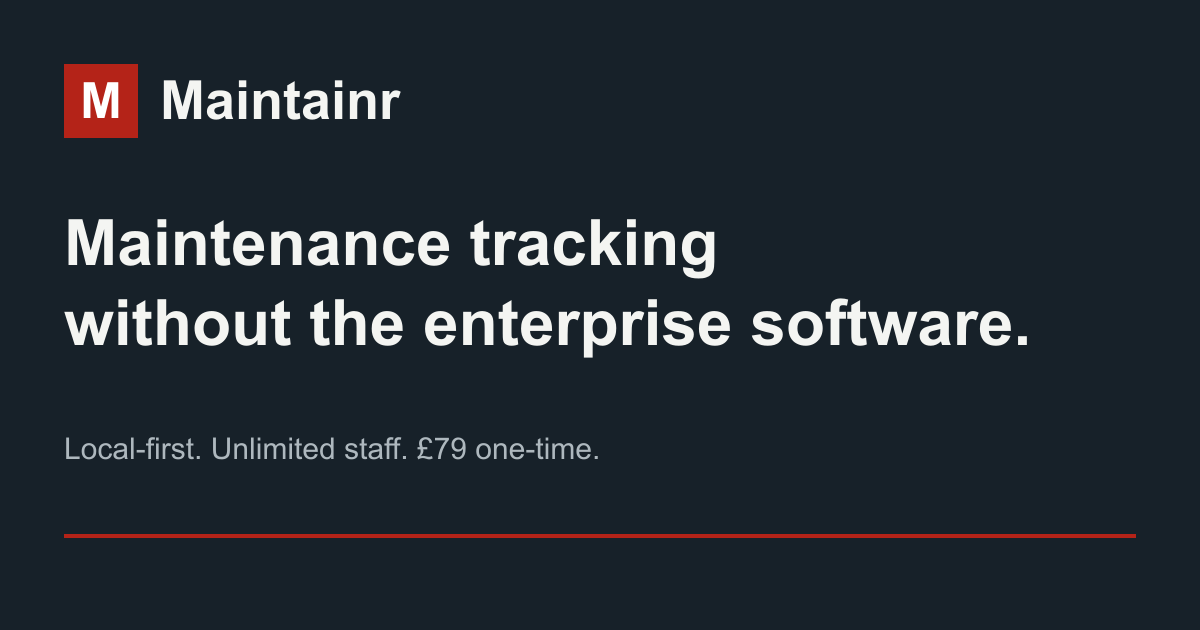
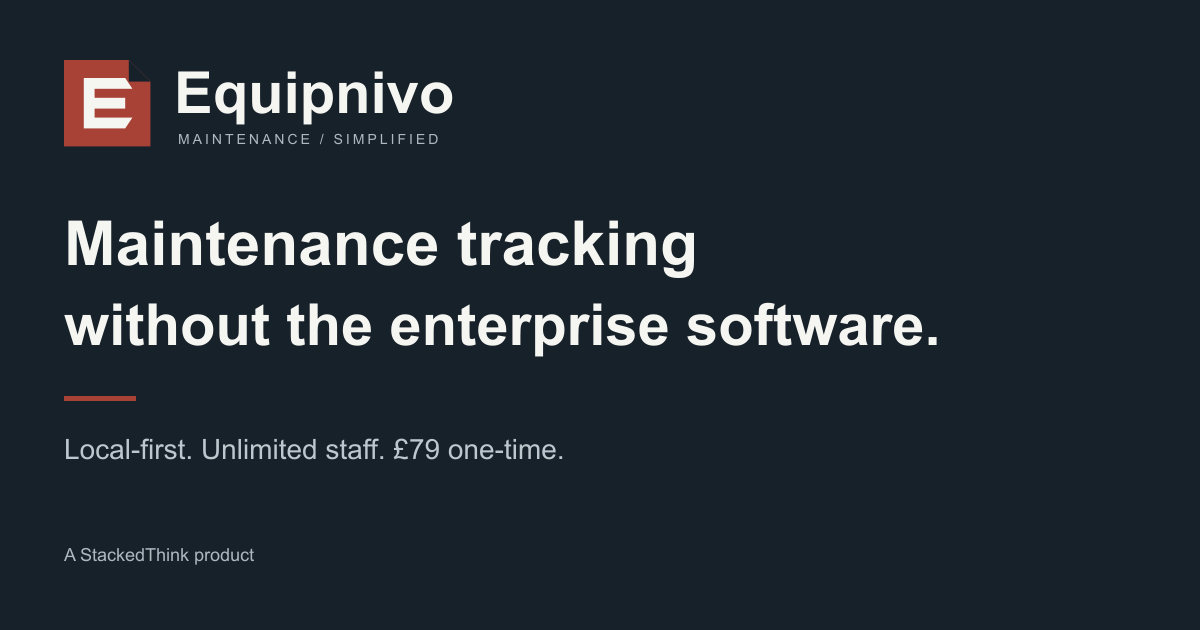
Introduce Equipnivo identity, new canonical domain and audited application rename plan

diff --git a/src/styles/site.css b/src/styles/site.css
@@ -3,3 +3,7 @@
 @media(max-width:760px){.wrap{width:calc(100% - 36px)}.header-inner{flex-direction:column;align-items:flex-start;padding:20px 0;gap:20px}nav{gap:18px;flex-wrap:wrap;width:100%}nav a{font-size:11px}.nav-download{padding:0;border:0}.hero{padding:44px 0}.hero-grid,.local-grid,.pricing-grid,.faq-grid,.section-heading,.two-columns{grid-template-columns:1fr;gap:30px}.hero h1{font-size:clamp(48px,9vw,65px)}.hero-spec{max-width:520px;width:100%}.hero .lead{font-size:15px}.spec-title{font-size:44px}.hero-spec dl{margin:20px 25px}.industry-strip>.wrap{align-items:flex-start;gap:14px}.industry-strip span{padding-top:4px}.feature-grid{grid-template-columns:1fr 1fr}.feature{padding:22px}.section{padding-block:50px}.section-heading{margin-bottom:24px;gap:0}.section-heading>p{max-width:none}.local-section,.faq-section{padding:48px 0}.pricing-grid{gap:30px}.price-card{padding:26px}.faq-grid{gap:12px}.closing{align-items:flex-start;flex-direction:column;padding-block:40px}.footer-inner{align-items:flex-start;flex-direction:column;gap:16px}.footer p{margin:0}.download-panel,.help-bar{flex-direction:column;align-items:flex-start}.status-label{max-width:none}.two-columns{gap:30px}.network{padding:28px 20px}.eyebrow{font-size:9px}}
 @media(max-width:430px){.feature-grid{grid-template-columns:1fr}.feature h3{max-width:none}.number{margin-bottom:15px}.actions{flex-direction:column}.actions .button{width:100%}.hero h1{font-size:48px}.feature p{font-size:13px}.header nav{gap:14px}.hero-spec dl div{grid-template-columns:65px 1fr}.industry-strip p{font-size:10px}.price-card .text-link{font-size:11px}.download-panel{padding:22px}.instruction-panel{padding:22px}}
 @media(prefers-reduced-motion:reduce){html{scroll-behavior:auto}}
+/* Equipnivo identity: angular E, equipment label geometry and restrained oxide red. */
+:root{--red:#a84236}em{color:#d68170}.primary:hover{background:#89362c;border-color:#89362c}.red-square{background:#d68170}.brand-mark{display:block;width:44px;height:44px;flex:0 0 auto;color:var(--red)}.brand span{font-size:32px;letter-spacing:.01em}.brand small{font-size:8px;letter-spacing:.17em}.header-inner{min-height:104px}.hero{padding-top:52px}.hero-brandline{display:flex;align-items:center;gap:12px;margin-bottom:32px}.hero-brandline>.brand-mark{width:32px;height:32px}.hero-brandline>span{font:700 20px/1 'Barlow Condensed';letter-spacing:.07em}.hero-brandline small{display:block;margin-top:5px;font:500 8px Inter;letter-spacing:.15em;color:#acb8c0}.hero h1{font-size:clamp(48px,6.3vw,80px)}.spec-emblem{padding:26px 25px 0;display:flex;gap:17px;align-items:center}.spec-emblem .brand-mark{width:76px;height:76px}.spec-emblem>span{font:600 12px/1.7 'Barlow Condensed';letter-spacing:.14em;color:#b7c1c7}.spec-title{font-size:45px;padding-top:23px}.hero-spec{border-top:3px solid var(--red)}.spec-head{font-size:8px;letter-spacing:.12em}.number{font-size:24px}.footer .brand-mark{width:36px;height:36px}.footer .brand small{font-size:7px}.footer .brand span{font-size:26px}.network .device-icon{color:#d68170}
+@media(max-width:760px){.header-inner{min-height:auto}.hero-brandline{margin-bottom:26px}.hero h1{font-size:clamp(48px,9vw,65px)}.spec-title{font-size:43px}.hero{padding-top:36px}}
+@media(max-width:430px){.hero h1{font-size:46px}.spec-title{font-size:40px}.brand span{font-size:30px}}

diff --git a/src/config.ts b/src/config.ts
@@ -1,5 +1,5 @@
 export const site = {
-  url: 'https://maintainr.stackedthink.com',
+  url: 'https://equipnivo.stackedthink.com',
   checkout: 'https://buy.stripe.com/7sY7sMgDC5h58MV3sBaAw00',
   // Only set this after verifying a stable Windows installer release asset.
   windowsDownload: null as string | null,

diff --git a/APP-RENAME-PLAN.md b/APP-RENAME-PLAN.md
@@ -1,0 +1,77 @@
+# Equipnivo v1.0.0 — application rename plan
+
+Published by StackedThink. Audit performed 2026-09-30 against `RyanGAt/Maintainr` main, commit `07404c2ed2191716d7617e2925ef669525f7a322`. This is a source audit and implementation plan. Application code, live Stripe configuration and the production licensing service have not been changed by the website rename.
+
+## Target identity
+
+- Product: **Equipnivo**, tagline **Maintenance / Simplified**.
+- Positioning: **Maintenance tracking without the enterprise software.**
+- Publisher: **StackedThink**.
+- Website: https://equipnivo.stackedthink.com.
+- Website repository: `RyanGAt/equipnivo-website`.
+- Proposed application repository: `RyanGAt/Equipnivo` (rename before public release; not changed during this audit).
+- Release/tag: **Equipnivo v1.0.0** / `v1.0.0`.
+- Installer: `Equipnivo-1.0.0-Windows-x64.exe`.
+- Windows host executable: `Equipnivo.exe`; explicitly set assembly/product/company/version metadata rather than relying on a renamed folder.
+- Proposed licence prefix: `EQN1-`; product payload and checkout metadata ID: `equipnivo`; major version remains `1`.
+- Licensing hostname stays `license.stackedthink.com`. Keep the £79 price, one-installation entitlement, unlimited staff and offline certificate verification.
+
+## Customer-facing audit
+
+| Area | Confirmed source | Required change |
+| --- | --- | --- |
+| Login, initial admin setup, navigation and header | `frontend/src/App.vue` lines 56, 60, 77–99 | Replace visible name and all three M badges with the angular Equipnivo E. Use the website's SVG geometry; retain readable wordmark and tagline. |
+| Browser/window title | `frontend/index.html` currently contains only the mount element and module script | Add a proper HTML document, title `Equipnivo`, favicon and viewport metadata. If a desktop shell/tray launcher is added, title it Equipnivo too. No shell currently exists in the tree. |
+| First equipment setup | `frontend/src/views/Dashboard.vue` lines 91–148 | Rename headings, explanatory text, submit label and ready message. |
+| Trial upgrade modal | `frontend/src/views/Assets.vue` lines 183–190 | Rename trial text and upgrade button. Keep the 10 active equipment limit. |
+| Settings and licence UI | `frontend/src/views/Settings.vue` lines 83–100 and 122–230 | Rename settings, activation/deactivation feedback, buy button, network explanation and data path label. Switch both licence placeholders to EQN1 only when the issuer is changed. |
+| API error messages | `backend/Maintainr.Api/Program.cs` lines 94, 124, 241 and `LicenseService.cs` lines 87, 98, 132 | Rename trial, setup, admin and licence errors. Keep role and validation behaviour. |
+| Purchase success page | `licensing/Maintainr.Licensing.Api/Program.cs` lines 183–211, 251 | Rename browser title, StackedThink product label, purchase status, activation guidance and already-active error. This page is served by licensing production, so stage it with the coordinated licensing release. |
+| Docs | Root `README.md`, `docs/architecture.md`, `licensing/deploy/README.md` | Rewrite commands, paths, product identity and examples; remove outdated milestone/status claims when implementing the release. |
+| Screenshots/assets | Recursive repository tree | No committed screenshots, logo files, installer scripts or release binaries were found. Capture genuine app screenshots after the rename; do not recreate fake UI. |
+
+## Executables, projects and configuration
+
+Rename `backend/Maintainr.Api/` and its project to `backend/Equipnivo.Api/Equipnivo.Api.csproj`. Use `Equipnivo.Api` for the namespace and `EquipnivoDbContext` for the context class; update usages in Program, models, auth and seed code together. Set a deliberate executable assembly name `Equipnivo`, Product `Equipnivo`, Company `StackedThink` and Version `1.0.0`. Confirm publish output names in packaging rather than assuming the `.csproj` rename sets all Windows metadata.
+
+Rename the licensing source project/namespace to `Equipnivo.Licensing.Api` when preparing its staged release. Namespace and project-folder changes are straightforward here; no namespace names should become database table renames. Preserve database schema semantics.
+
+`frontend/package.json` is `maintainr-frontend` version `0.1.0`: change to `equipnivo-frontend` / `1.0.0` and regenerate the lockfile if one is introduced. The app has no committed lockfile today.
+
+Replace the configuration section `Maintainr` with `Equipnivo` in backend appsettings, `Program.cs`, `LicenseService.cs` and documented environment variables. Current keys are `UpgradeUrl`, `UpgradePrice`, `LicenseServerUrl`, `SeedDemoData` and `Licensed`. The development-only licensed override must stay development-only. Keep generic `Licensing`, `Stripe`, ASP.NET and Vite configuration keys unchanged. Change `MAINTAINR_API_URL` in `frontend/vite.config.ts` to `EQUIPNIVO_API_URL` and update docs. Keep `VITE_API_BASE_URL` generic.
+
+Change browser storage `maintainr_token` to `equipnivo_token`, event `maintainr-auth-expired` to `equipnivo-auth-expired`, frontend type `MaintainrUser` to `EquipnivoUser`, and `HttpContext.Items["MaintainrUser"]` to `EquipnivoUser` across `auth.ts`, `api.ts`, `LocalAuth.cs` and backend `Program.cs`. Existing development browser sessions can simply sign in again; no legacy aliases are necessary for a pre-release product.
+
+## Local data and installation
+
+The current app derives `../../data` from ContentRootPath in backend `Program.cs` lines 9–15 and stores `maintainr.db`, uploads, backups, installation ID and licence certificate files there. Settings shows `data/maintainr.db`.
+
+For the Windows release, choose one explicit installation-wide writable location, proposed `%ProgramData%\StackedThink\Equipnivo\`, with `equipnivo.db`, `uploads\`, `backups\`, `license.json`, `license-public-key.pem` and `installation-id.txt`. Keep dev data configurable/relative; do not put writable production data under Program Files. Grant access to the service account and intended local admins, not broad unrelated users.
+
+Do not silently abandon or overwrite existing development databases. Back up and manually import needed data into the renamed directory; record that this is a development migration, not a permanent compatibility layer. Decide whether development activations are discarded/reissued before adopting the new product ID. Do not regenerate signing keys merely to rename a product.
+
+No packaged Windows host, installer configuration or public release exists yet. Create packaging that serves the compiled Vue frontend, starts the local server, supports LAN clients and uses the Equipnivo filename, Start menu/tray labels, uninstall entry and E icon. Test a clean Windows x64 installation and uninstall without deleting customer data by default.
+
+## Coordinated licensing and Stripe changes — report first, apply later
+
+The following are proposed changes only. Live Stripe Dashboard/API product settings and transaction counts were not inspected or modified; exact live resources must be read and backed up before implementation. Source defaults reference the existing payment link, not proof of its current live metadata.
+
+1. **Key issuer:** `CertificateSigner.cs` line 56 creates `MNT1-…`. Change only the format prefix to `EQN1-…`; retain cryptographic randomness and hashing. UI examples and docs must match.
+2. **Signed product identity:** licensing `Program.cs` line 103 signs product `maintainr`; the local verifier in backend `LicenseService.cs` line 200 requires `maintainr`. Switch both to `equipnivo` in the same staged release. Changing only one side causes paid activation to fail.
+3. **Stripe fulfillment filter:** licensing `Program.cs` lines 144–155 requires checkout-session metadata `product=maintainr`, `major_version=1`, the configured payment-link ID, subtotal 7900 and GBP. Change the product filter to `equipnivo` only in coordination with the Payment Link's session metadata. Changing Product metadata alone does not satisfy this filter.
+4. **Display identity:** inspect the Stripe Product attached to the existing £79 Price/Payment Link. Rename its customer-facing name and description to Equipnivo V1, plus any relevant receipt/checkout text and product imagery. Keep the current checkout link and Price ID if their existing settings can be edited safely. Do not create a duplicate paid offer without a reason.
+5. **Return page/webhook:** preserve `https://license.stackedthink.com/webhooks/stripe` and `/success?session_id={CHECKOUT_SESSION_ID}`. Stage Equipnivo success-page copy. Preserve webhook signature validation, duplicate-event/idempotent fulfillment, amount/currency checks and one active installation per key.
+6. **Existing records:** confirm the no-public-customers assumption by checking purchase/licence/activation records with read-only queries. Back up licensing.db and signing material securely. Explicitly decide the disposition of any test keys/certificates; do not delete them or alter production rows as part of a text rename.
+7. **Runtime paths:** `/opt/maintainr-licensing`, `/var/lib/maintainr-licensing`, `/etc/maintainr-licensing.env` and `maintainr-licensing.service` are named in deployment docs. They may remain during the coordinated cutover to reduce operational risk; if renamed, update the unit's WorkingDirectory, DLL path, DataPath, ownership, environment file and backup jobs together. The public hostname remains unchanged.
+
+The website keeps the existing public Stripe URL and uses neutral “full licence key supplied with your purchase” wording rather than falsely advertising EQN1 before the backend issues it. Checkout and activation may still display Maintainr until this plan is implemented. Treat that as a public-launch blocker.
+
+## Implementation order and acceptance
+
+1. Website rename, branding, canonical URL, DNS, HTTPS, SEO and repo rename (this change).
+2. Prepare an application rename branch: UI, E mark, messages, docs, namespaces, configuration and data-path/packaging choices. Rename the app repository when its references and deployment tooling have been inventoried.
+3. Prepare and test the paired client/licensing `equipnivo` product ID and EQN1 changes against a non-production Stripe setup. Report the exact live changes before applying them.
+4. Perform the approved production cutover with backups and rollback to the matched prior client/licensing identity if needed. Do not rotate signing keys without a separate requirement.
+5. Publish **Equipnivo v1.0.0** with `Equipnivo-1.0.0-Windows-x64.exe`, checksums and authentic screenshots; then enable the website download URL.
+
+Acceptance checks: Vue typecheck/build and .NET builds; clean Admin setup and Staff PIN login; 10-equipment trial boundary; checks, faults and attributed history; successful payment fulfillment and replayed webhook; EQN1 activation, offline restart, deactivation/transfer and wrong-product certificate rejection; clean Windows installation on the main PC and browser access from a phone; backup/restore; repository-wide naming scan with explicit documented exceptions only.

diff --git a/README.md b/README.md
@@ -1,6 +1,6 @@
-# Maintainr public website
+# Equipnivo public website
 
-Standalone Astro + TypeScript static marketing site for https://maintainr.stackedthink.com. This repository contains no Maintainr application or licensing service code. No database or runtime backend is needed.
+Standalone Astro + TypeScript static marketing site for https://equipnivo.stackedthink.com. This repository contains no Equipnivo application or licensing service code. No database or runtime backend is needed.
 
 ## Development
 
@@ -35,19 +35,19 @@ Host: `85.190.106.89`, SSH user `administrator`. Keep credentials outside this r
 Static release layout:
 
 ```text
-/var/www/maintainr-website/releases/<release-id>/
-/var/www/maintainr-website/current -> releases/<release-id>
-/var/www/maintainr-website/deploy/compose.yaml
-/var/www/maintainr-website/deploy/container-nginx.conf
+/var/www/equipnivo-website/releases/<release-id>/
+/var/www/equipnivo-website/current -> releases/<release-id>
+/var/www/equipnivo-website/deploy/compose.yaml
+/var/www/equipnivo-website/deploy/container-nginx.conf
 ```
 
 Build locally, archive the contents of `dist/`, upload with scp, extract into a new release directory and atomically replace the `current` symlink. Record the deployed commit. Keep old releases for rollback. Do not upload source credentials or node_modules.
 
-The active VPS entry point is Coolify's Traefik proxy, with HTTP/HTTPS on ports 80/443. Host Nginx is disabled. Do not start host Nginx or replace the proxy. This site's dedicated Nginx container joins the existing `coolify` Docker network and publishes no host ports. Only the Maintainr hostname routes to it. The Nginx image is pinned to the digest verified at initial deployment.
+The active VPS entry point is Coolify's Traefik proxy, with HTTP/HTTPS on ports 80/443. Host Nginx is disabled. Do not start host Nginx or replace the proxy. This site's dedicated Nginx container joins the existing `coolify` Docker network and publishes no host ports. Only the Equipnivo hostname routes to it. The Nginx image is pinned to the digest verified at initial deployment.
 
-For initial setup, inspect the active proxy and existing routes and preserve them. Copy `deploy/container-nginx.conf`, `deploy/compose.yaml` and `deploy/install-container.sh` to the server as `/home/administrator/maintainr-container-nginx.conf`, `/home/administrator/maintainr-compose.yaml` and `/home/administrator/maintainr-install-container.sh`. The static release and `current` symlink must exist first. Run the install script; it validates Compose and runs `nginx -t` in a temporary container before starting the site.
+For initial setup, inspect the active proxy and existing routes and preserve them. Copy `deploy/container-nginx.conf`, `deploy/compose.yaml` and `deploy/install-container.sh` to the server as `/home/administrator/equipnivo-container-nginx.conf`, `/home/administrator/equipnivo-compose.yaml` and `/home/administrator/equipnivo-install-container.sh`. The static release and `current` symlink must exist first. Run the install script; it validates Compose and runs `nginx -t` in a temporary container before starting the site.
 
-For Nginx configuration edits, back up the current file, update it, run `sudo docker exec maintainr-website nginx -t` and reload using `sudo docker exec maintainr-website nginx -s reload` only after validation succeeds. A failed test requires restoring the previous file without reloading. The site root is mounted as a parent directory so an atomic `current` symlink change works for content-only releases.
+For Nginx configuration edits, back up the current file, update it, run `sudo docker exec equipnivo-website nginx -t` and reload using `sudo docker exec equipnivo-website nginx -s reload` only after validation succeeds. A failed test requires restoring the previous file without reloading. The site root is mounted as a parent directory so an atomic `current` symlink change works for content-only releases.
 
 ### DNS and HTTPS
 
@@ -55,18 +55,24 @@ If DNS is absent, create the following Cloudflare record in the stackedthink.com
 
 | Type | Name | IPv4 | Proxy | TTL |
 | --- | --- | --- | --- | --- |
-| A | maintainr | 85.190.106.89 | DNS only for initial certificate issuance | Auto |
+| A | equipnivo | 85.190.106.89 | DNS only for initial certificate issuance | Auto |
 
 No AAAA record is needed unless the VPS IPv6 address has been verified. Make no unrelated DNS changes.
 
 Once public DNS resolves correctly, Traefik's existing `letsencrypt` resolver can issue the certificate for the dedicated HTTPS route. DNS and certificate issuance are complete. The following redirect labels are enabled on the website service:
 
 ```sh
-traefik.http.middlewares.maintainr-redirect.redirectscheme.scheme: https
-traefik.http.middlewares.maintainr-redirect.redirectscheme.permanent: 'true'
-traefik.http.routers.maintainr-website-http.middlewares: maintainr-redirect
+traefik.http.middlewares.equipnivo-redirect.redirectscheme.scheme: https
+traefik.http.middlewares.equipnivo-redirect.redirectscheme.permanent: 'true'
+traefik.http.routers.equipnivo-website-http.middlewares: equipnivo-redirect
 ```
 
-Validate Compose, test Nginx and apply with `sudo docker compose -f /var/www/maintainr-website/deploy/compose.yaml up -d`. Confirm HTTPS returns 200, HTTP redirects to HTTPS and the certificate matches the domain. Traefik handles automatic renewal through its existing ACME storage. Do not edit or publish that storage. Check `/download/`, `/licence-help/`, `/robots.txt`, `/sitemap.xml` and a missing path (404), then verify the existing Sunshine Plunge host still works.
+Validate Compose, test Nginx and apply with `sudo docker compose -f /var/www/equipnivo-website/deploy/compose.yaml up -d`. Confirm HTTPS returns 200, HTTP redirects to HTTPS and the certificate matches the domain. Traefik handles automatic renewal through its existing ACME storage. Do not edit or publish that storage. Check `/download/`, `/licence-help/`, `/robots.txt`, `/sitemap.xml` and a missing path (404), then verify the existing Sunshine Plunge host still works.
 
 Rollback static content by replacing the `current` symlink with the previous release. Nginx does not need reloading for a content-only deployment.
+
+## Application rename audit
+
+See APP-RENAME-PLAN.md for the audited application rename and the proposed coordinated Stripe/licensing cutover. Production Stripe and licensing remain unchanged. The current checkout and licence success page may still use the previous product identity until that cutover is approved.
+
+The old product hostname redirects permanently to Equipnivo; it is never canonical.

diff --git a/DEPLOYMENT.md b/DEPLOYMENT.md
@@ -1,30 +1,21 @@
-# Deployment status — 2026-09-30
+# Equipnivo deployment — 2026-09-30
 
-- Repository: https://github.com/RyanGAt/maintainr-website
-- Framework: Astro 7.3.5 + TypeScript, static output.
-- Static content release: `8f21be690fdd49f9b211ee5fb5fb44d59a17bd21`.
-- VPS: `85.190.106.89`.
-- Content: `/var/www/maintainr-website/releases/8f21be690fdd49f9b211ee5fb5fb44d59a17bd21`.
-- Active symlink: `/var/www/maintainr-website/current`.
-- Container: `maintainr-website`, restart policy `unless-stopped`, no public host ports.
-- Nginx: `/var/www/maintainr-website/deploy/container-nginx.conf`, mounted as `/etc/nginx/conf.d/default.conf` in the dedicated container.
-- Compose: `/var/www/maintainr-website/deploy/compose.yaml`.
-- Routing: existing Coolify Traefik proxy; dedicated domain-only HTTP/HTTPS routes using its existing Let's Encrypt resolver.
-- Host Nginx remains disabled. Its existing sites were preserved. The unused new Maintainr host config was removed from sites-enabled and archived under `/home/administrator/maintainr-unused-host-nginx.conf`.
-- Pre-change host Nginx backup: `/home/administrator/nginx-before-maintainr-8f21be690fdd49f9b211ee5fb5fb44d59a17bd21.tar.gz`.
+Canonical website: https://equipnivo.stackedthink.com
+Repository: https://github.com/RyanGAt/equipnivo-website
 
-## Verification
+- Framework: Astro + TypeScript, static output; Barlow Condensed/Inter served locally.
+- Identity: angular Equipnivo E mark, oxide red accent, navy/charcoal and sharp industrial layout.
+- Routes: home, download/getting started, licence help, 404; SEO, sitemap, robots, PNG Open Graph image and SoftwareApplication data use the Equipnivo domain.
+- VPS: 85.190.106.89.
+- Root: /var/www/equipnivo-website; current symlink points to an immutable static release.
+- Container: equipnivo-website, on the existing coolify network with no public host ports.
+- Nginx: /var/www/equipnivo-website/deploy/container-nginx.conf.
+- Compose: /var/www/equipnivo-website/deploy/compose.yaml.
+- TLS: existing Traefik letsencrypt resolver, automated renewal. HTTP redirects to HTTPS.
+- Cloudflare: equipnivo A record → 85.190.106.89, DNS only, TTL Auto.
+- Old maintainr.stackedthink.com hostname: permanent redirect to https://equipnivo.stackedthink.com preserving the request path and query. The old container exists only to serve this redirect with its existing certificate.
+- Host Nginx remains disabled. Sunshine Plunge, shared proxy, licensing hostname/configuration and Stripe checkout are preserved.
 
-Astro check: zero errors, warnings and hints. Production build: four static pages. Desktop and 390px mobile layouts inspected; mobile had no horizontal overflow. FAQ expansion verified.
+Deployment requires nginx -t before starting/reloading the website Nginx. The old site's Nginx config is backed up before installing its redirect. The website source is pushed to main and the static release is identified in /var/www/equipnivo-website/deployed-commit.txt.
 
-Using explicit Host routing to the VPS: home, download, licence help, robots, sitemap and social image returned 200; a missing path returned 404. The external HTTP request using curl `--resolve` returned 200. Sunshine Plunge HTTPS still returned 200 with certificate validation.
-
-## DNS and HTTPS completed
-
-On 2026-09-30 the Cloudflare A record for `maintainr.stackedthink.com` was created pointing to `85.190.106.89`, DNS only, TTL Auto (300 seconds). Public DNS resolves correctly. HTTPS returns 200 with a valid Let's Encrypt certificate matching the domain, expiring 2026-12-29. The HTTP router redirects to HTTPS. Traefik manages certificate renewal through its existing resolver.
-
-The site is publicly available at https://maintainr.stackedthink.com. No unrelated DNS records were modified. The dedicated HTTPS router is named `maintainr-website-secure`. DNS and HTTPS require no further manual setup.
-
-No Windows release assets exist in RyanGAt/Maintainr as of this check. Download buttons accurately say coming soon. Set the exact installer URL in `src/config.ts` only after a stable publicly downloadable Windows installer exists.
-
-The application repository, Stripe checkout, licensing configuration and license.stackedthink.com were not modified.
+No installer has been published. Download labels remain coming soon. Application release plan: APP-RENAME-PLAN.md. Production checkout and licensing may still show the old product name until the separately approved cutover.
